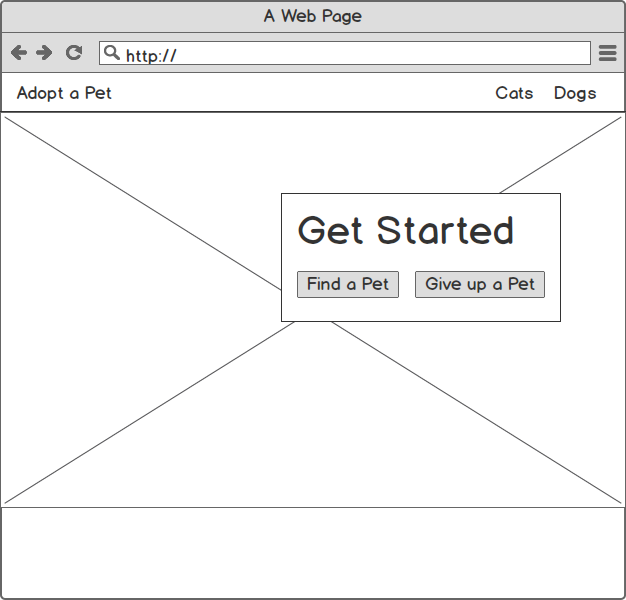
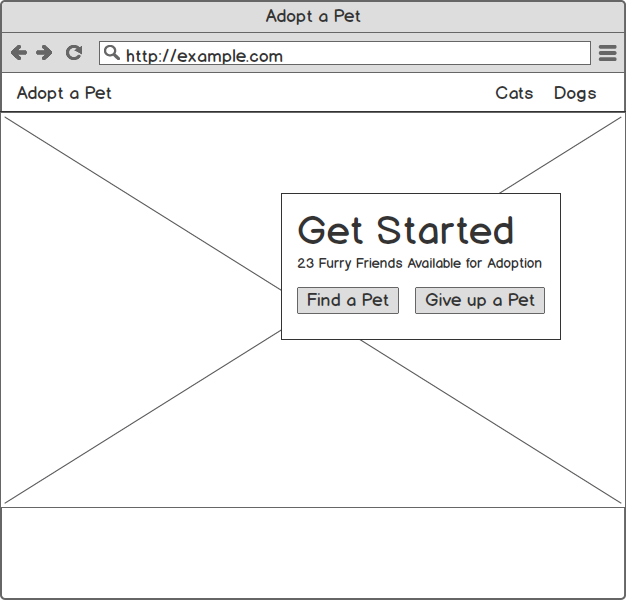
updated readme and changed inkline folder to match new mockups

Changed region(s): [[0.4553, 0.42, 0.8802, 0.57], [0.4249, 0.0, 0.5767, 0.06], [0.2732, 0.09, 0.4553, 0.12]]

diff --git a/inkline-vue/src/views/Home.vue b/inkline-vue/src/views/Home.vue
@@ -4,7 +4,11 @@
 
     <div class="hero-text">
       <h1>Adopt a new best friend.</h1>
+
       <i-button @click="showPetForm = true" variant="primary">
+        Find a Pet
+      </i-button>
+      <i-button @click="$router.push('/enter-pet-info')" variant="primary">
         Add New Pet
       </i-button>
     </div>
@@ -12,51 +16,17 @@
     <i-modal variant="info" v-model="showPetForm">
       <template slot="header">Pet Information</template>
 
-      <i-form @submit.prevent="handleSubmit" v-if="showPetForm">
-        <i-form-group id="exampleInputGroup2" label="Pet's Name:" label-for="exampleInput2">
-          <i-input
-            id="exampleInput2"
-            type="text"
-            v-model="formData.name"
-            required
-            placeholder="Enter name"
-          />
-        </i-form-group>
-
-        <i-form-group id="exampleInputGroup3" label="Species:" label-for="exampleInput3">
-          <i-select
-            id="exampleInput3"
-            :options="['cats', 'dogs']"
-            required
-            v-model="formData.species"
-          />
-        </i-form-group>
-
-        <i-form-group id="exampleInputGroup2" label="Pet's Age:" label-for="exampleInput2">
-          <i-input
-            id="exampleInput2"
-            type="number"
-            v-model="formData.age"
-            required
-            placeholder="Enter age"
-          />
-        </i-form-group>
-
-        <i-button type="submit" variant="primary">Submit</i-button>
-        <i-button type="reset" variant="danger">Reset</i-button>
-      </i-form>
+      
     </i-modal>
   </div>
 </template>
 
 <script>
-import { mapActions, mapGetters } from 'vuex'
-
 export default {
   name: 'home',
   data() {
     return {
-      showPetForm: false,
+      showPetModal: false,
       formData: {
         name: '',
         age: 0,
@@ -64,36 +34,9 @@ export default {
       }
     }
   },
-  computed: {
-    ...mapGetters([
-      'animalsCount',
-      'getAllCats'
-    ])
-  },
   methods: {
-    ...mapActions([
-      'addPet'
-    ]),
-    togglePetForm() {
-      this.showPetForm = !this.showPetForm
-    },
-    handleSubmit() {
-      const { species, age, name } = this.formData
-      const payload = {
-        species,
-        pet: {
-          name,
-          age
-        }
-      }
-      this.addPet(payload)
-
-      // reset form after submit
-      this.formData = {
-        name: '',
-        age: 0,
-        species: null
-      }
+    togglePetModal() {
+      this.showPetModal = !this.showPetModal
     }
   }
 }

diff --git a/inkline-vue/src/views/PetInfoForm.vue b/inkline-vue/src/views/PetInfoForm.vue
@@ -1,0 +1,68 @@
+<template>
+  <i-form @submit.prevent="handleSubmit" v-if="showPetForm">
+    <i-form-group id="exampleInputGroup2" label="Pet's Name:" label-for="exampleInput2">
+      <i-input
+        id="exampleInput2"
+        type="text"
+        v-model="formData.name"
+        required
+        placeholder="Enter name"
+      />
+    </i-form-group>
+
+    <i-form-group id="exampleInputGroup3" label="Species:" label-for="exampleInput3">
+      <i-select
+        id="exampleInput3"
+        :options="['cats', 'dogs']"
+        required
+        v-model="formData.species"
+      />
+    </i-form-group>
+
+    <i-form-group id="exampleInputGroup2" label="Pet's Age:" label-for="exampleInput2">
+      <i-input
+        id="exampleInput2"
+        type="number"
+        v-model="formData.age"
+        required
+        placeholder="Enter age"
+      />
+    </i-form-group>
+
+    <i-button type="submit" variant="primary">Submit</i-button>
+    <i-button type="reset" variant="danger">Reset</i-button>
+  </i-form>
+</template>
+
+<script>
+import { mapActions, mapGetters } from 'vuex'
+
+export default {
+  data() {
+    return {}
+  },
+  methods: {
+    ...mapActions([
+      'addPet'
+    ]),
+    handleSubmit() {
+      const { species, age, name } = this.formData
+      const payload = {
+        species,
+        pet: {
+          name,
+          age
+        }
+      }
+      this.addPet(payload)
+
+      // reset form after submit
+      this.formData = {
+        name: '',
+        age: 0,
+        species: null
+      }
+    }
+  }
+}
+</script>

diff --git a/inkline-vue/src/App.vue b/inkline-vue/src/App.vue
@@ -2,7 +2,7 @@
   <div id="app">
     <i-navbar>
     <i-navbar-brand :to="{ name: 'home' }">
-      Pet Store
+      Adopt a Pet
     </i-navbar-brand>
       <i-navbar-items class="_justify-content-end">
         <i-nav>

diff --git a/README.md b/README.md
@@ -8,6 +8,8 @@ This is still in the early stages and needs a lot more work.
 
 <img src="home_page.png" alt="home page mockup">
 
+<img src="pet_type_modal.png" alt="pet type modal mockup">
+
 <img src="pet_table.png" alt="pet table mockup">
 
 <img src="pet_form.png" alt="pet form mockup">
